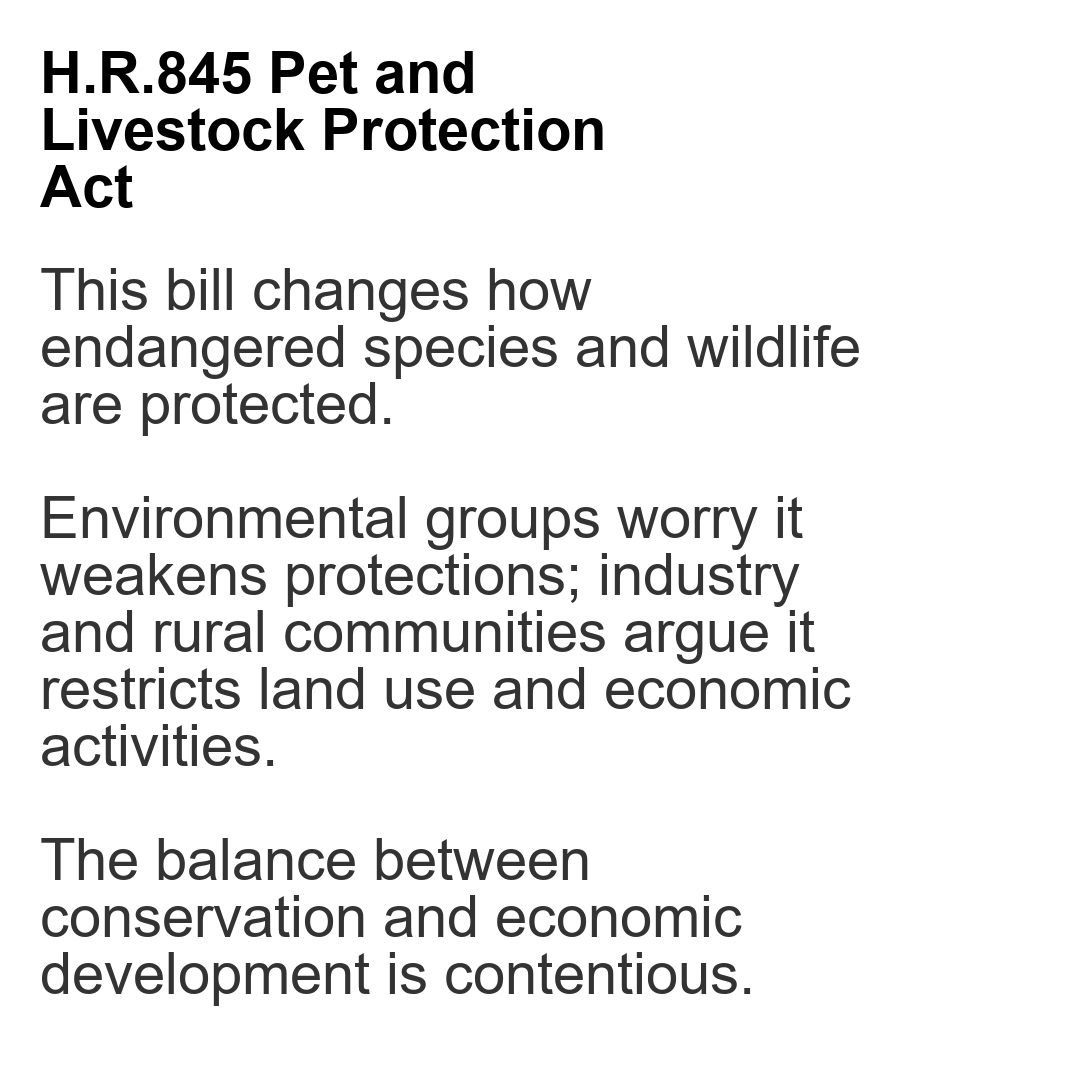
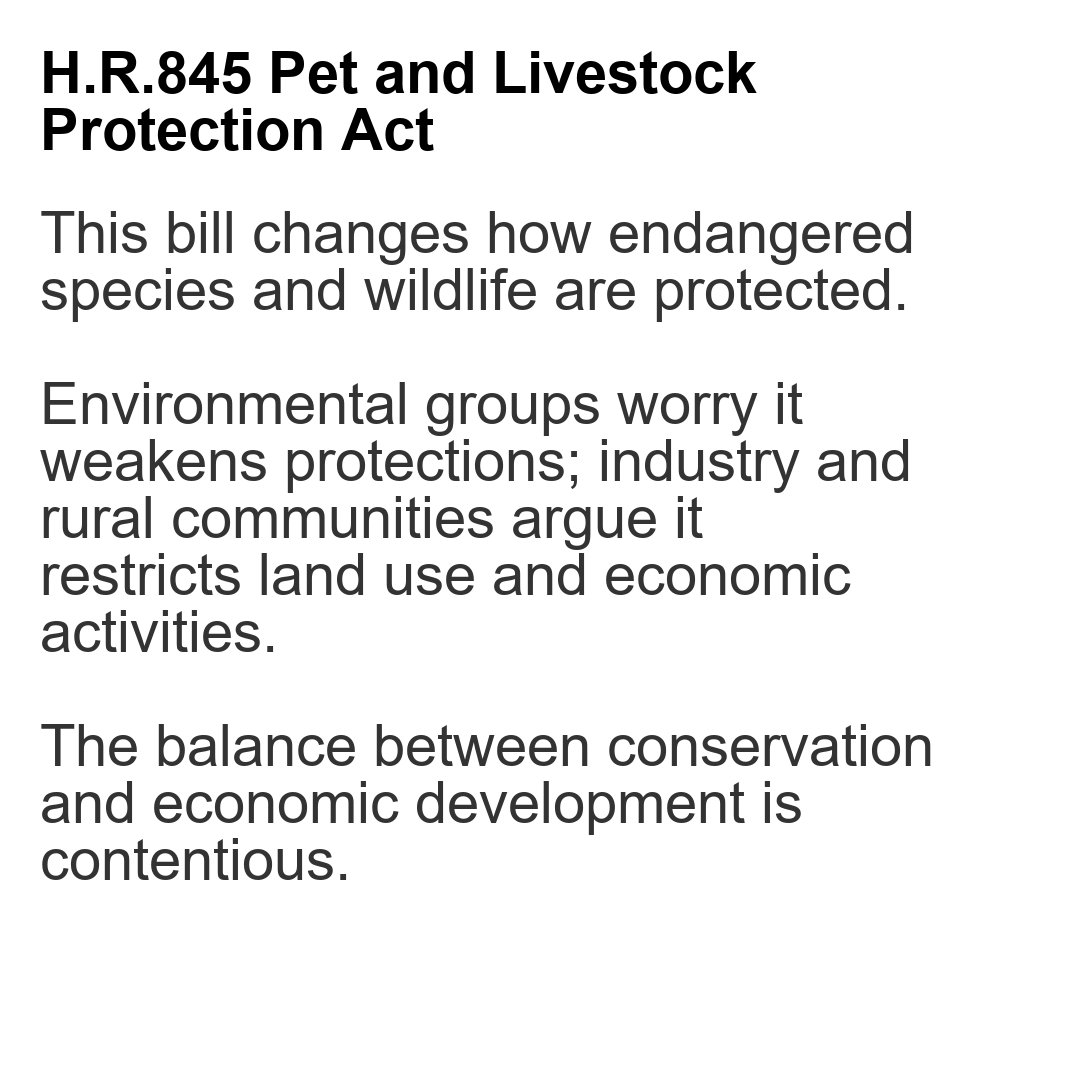
Improve social media title images: full titles, better text width, smarter descriptions
- Remove 3-line title truncation - now displays full bill titles
- Dynamic image height to accommodate longer titles
- Better text wrapping using average character width for fuller line utilization
- Add bill_title parameter to simplify_to_eli5 for fallback context
- Add healthcare/insurance premium pattern matching
- Add education + foreign influence + transparency pattern matching
- Handle metadata-only descriptions by using title keywords
- Regenerated all Dec 2025 title images

Changed region(s): [[0.0306, 0.0306, 0.8861, 0.9472]]

diff --git a/scripts/social_agent_from_json.py b/scripts/social_agent_from_json.py
@@ -64,18 +64,44 @@ def load_json(path: Path):
     return json.loads(path.read_text())
 
 
-def simplify_to_eli5(description: str) -> str:
+def simplify_to_eli5(description: str, bill_title: str = "") -> str:
     """
     Convert a bill description to a clear overview highlighting impacts and consequences.
     
     Focus on: What the bill does, who it affects, and what the real-world consequences
     might be—both intended and potential unintended. Explain nuances and trade-offs.
     Stick to facts; highlight potential harms and benefits for different groups.
-    """
-    if not description or len(description.strip()) < 10:
-        return "This bill makes changes to federal policy."
     
-    text_lower = description.lower()
+    Args:
+        description: The bill's brief summary text
+        bill_title: The bill's title (used as fallback when description is inadequate)
+    """
+    # Check if description is inadequate (empty, too short, or just metadata)
+    is_inadequate = (
+        not description or 
+        len(description.strip()) < 10 or
+        # Detect metadata-only descriptions (no actual bill content)
+        (re.search(r'^[A-Z][a-z]+,\s+[A-Z][a-z]+\s+\[', description) and 
+         'this bill' not in description.lower() and
+         not re.search(r'(requires|prohibits|establishes|authorizes|amends)', description.lower()))
+    )
+    
+    # Combine description and title for better matching
+    text_lower = description.lower() if description else ""
+    title_lower = bill_title.lower() if bill_title else ""
+    combined_lower = f"{text_lower} {title_lower}"
+    
+    # ===== HEALTHCARE & INSURANCE PREMIUMS =====
+    if re.search(r'(health\s*care|healthcare|insurance).*(premium|cost|affordable|lower)', combined_lower) or \
+       re.search(r'(premium|cost).*(health|insurance|affordable)', combined_lower) or \
+       re.search(r'lower.*health.*care.*premium', combined_lower):
+        return "This bill aims to reduce health care costs and insurance premiums.\nSupporters say it makes healthcare more affordable for families.\nCritics debate whether the approach effectively lowers costs or shifts them elsewhere.\nThe impact on coverage options and out-of-pocket expenses varies by income and insurance type."
+
+    # ===== EDUCATION & FOREIGN INFLUENCE TRANSPARENCY =====
+    if re.search(r'(school|education|lea|educational\s+agenc).*?(foreign\s+influence|china|adversar)', combined_lower) or \
+       re.search(r'(transparency|reporting).*?(adversar|foreign).*?(education|school|contribut)', combined_lower) or \
+       re.search(r'(parent|notif).*?(foreign|china|adversar)', combined_lower):
+        return "This bill requires schools to notify parents about foreign influence in education.\nParents gain the right to request information about foreign government involvement.\nSupporters say it protects against adversarial influence in schools.\nCritics worry it may burden schools and chill legitimate international educational exchanges."
     
     # ===== EDUCATION & SCHOOL FUNDING RESTRICTIONS =====
     if re.search(r'school.*?(china|foreign|communist).*?(prohibit|ban|prevent|restrict|disclose)', text_lower):
@@ -176,9 +202,8 @@ def simplify_to_eli5(description: str) -> str:
 
 
 def make_title_image(title: str, desc: str, out_path: Path, width=1080, subheader: str | None = None):
-    simple_desc = simplify_to_eli5(desc)
+    simple_desc = simplify_to_eli5(desc, bill_title=title)
     margin = 40
-    height = width
     base_desc = max(18, int(width * 0.018 * FONT_SCALE * 3))
     title_font_size = base_desc  # Reverted: no longer * 2
     desc_font_size = max(8, int(base_desc / 2)) * 2  # Keep 2x for description
@@ -186,7 +211,7 @@ def make_title_image(title: str, desc: str, out_path: Path, width=1080, subheade
     title_font = _get_font(['DejaVuSans-Bold.ttf', 'arialbd.ttf', 'arial.ttf', 'DejaVuSans.ttf'], title_font_size)
     desc_font = _get_font(['DejaVuSans.ttf', 'arial.ttf'], desc_font_size)
 
-    tmp_img = Image.new('RGB', (width, height), 'white')
+    tmp_img = Image.new('RGB', (width, 2000), 'white')  # Use larger temp image for measuring
     tmp_draw = ImageDraw.Draw(tmp_img)
 
     # Extract bill number and short title from full title
@@ -205,29 +230,29 @@ def make_title_image(title: str, desc: str, out_path: Path, width=1080, subheade
         short_title = match.group(2).strip()
         title = f"{bill_num} {short_title}"
     
-    # Wrap title based on pixel width, not character count
-    avg_title_char_width = tmp_draw.textbbox((0, 0), 'A', font=title_font)[2]
+    # Wrap title based on pixel width - use representative sample for better average
+    # Using lowercase letters which are more common in titles for better width estimate
+    sample_text = "abcdefghijklmnopqrstuvwxyz"
+    sample_bbox = tmp_draw.textbbox((0, 0), sample_text, font=title_font)
+    avg_title_char_width = (sample_bbox[2] - sample_bbox[0]) / len(sample_text)
     target_width = width - 2 * margin
-    title_chars_per_line = max(10, target_width // avg_title_char_width)
+    title_chars_per_line = max(10, int(target_width / avg_title_char_width))
     title_lines = textwrap.wrap(title, width=title_chars_per_line)
-    title = '\n'.join(title_lines[:3])
-    if len(title_lines) > 3:
-        title_text = '\n'.join(title_lines[:3])
-        title_text = title_text[:title_text.rfind('\n')] + '...'
-        title = title_text
+    title = '\n'.join(title_lines)  # Include ALL title lines - no truncation
 
     # Calculate title height
     title_bbox = tmp_draw.textbbox((margin, margin), title, font=title_font)
     title_h = title_bbox[3] - title_bbox[1]
     
-    # Position description with more spacing and center vertically in remaining space
+    # Position description with more spacing
     desc_start_y = margin + title_h + 60
-    available_height = height - desc_start_y - margin
     
-    # Wrap description to fill available space
-    avg_char_width = tmp_draw.textbbox((0, 0), 'a', font=desc_font)[2]
+    # Wrap description to fill available space - use representative sample for better average
+    desc_sample = "abcdefghijklmnopqrstuvwxyz"
+    desc_sample_bbox = tmp_draw.textbbox((0, 0), desc_sample, font=desc_font)
+    avg_char_width = (desc_sample_bbox[2] - desc_sample_bbox[0]) / len(desc_sample)
     target_width = width - 2 * margin
-    desc_chars_per_line = max(10, target_width // avg_char_width)
+    desc_chars_per_line = max(10, int(target_width / avg_char_width))
     
     # Split on newlines first (for our sentence-per-line formatting), then wrap long lines
     desc_paragraphs = simple_desc.split('\n')
@@ -243,6 +268,15 @@ def make_title_image(title: str, desc: str, out_path: Path, width=1080, subheade
     if wrapped_lines and wrapped_lines[-1] == '':
         wrapped_lines.pop()
     simple_desc = '\n'.join(wrapped_lines)
+
+    # Calculate description height
+    desc_bbox = tmp_draw.textbbox((margin, desc_start_y), simple_desc, font=desc_font)
+    desc_h = desc_bbox[3] - desc_bbox[1]
+    
+    # Calculate total required height dynamically based on content
+    total_height = margin + title_h + 60 + desc_h + margin
+    # Ensure minimum height of width (square) but expand if content requires more
+    height = max(width, total_height)
 
     img = Image.new('RGB', (width, height), 'white')
     draw = ImageDraw.Draw(img)

diff --git a/scripts/social_agent.py b/scripts/social_agent.py
@@ -128,22 +128,33 @@ def make_text_image(title: str, desc: str, out_path: Path, width: int = 1200) ->
         title_font = ImageFont.load_default()
         desc_font = ImageFont.load_default()
 
-    # Wrap text
-    wrapper = textwrap.TextWrapper(width=80)
-    desc_wrapped = wrapper.fill(desc)
-
-    # Estimate height
+    # Create dummy image for measuring text
     dummy = Image.new("RGB", (width, 200), "white")
     draw = ImageDraw.Draw(dummy)
-    title_h = draw.multiline_textsize(title, font=title_font)[1]
-    desc_h = draw.multiline_textsize(desc_wrapped, font=desc_font)[1]
+
+    # Wrap title based on pixel width to ensure full title fits
+    avg_title_char_width = draw.textbbox((0, 0), 'A', font=title_font)[2]
+    target_width = width - 2 * margin
+    title_chars_per_line = max(10, target_width // avg_title_char_width)
+    title_wrapper = textwrap.TextWrapper(width=title_chars_per_line)
+    title_wrapped = title_wrapper.fill(title)
+
+    # Wrap description
+    desc_wrapper = textwrap.TextWrapper(width=80)
+    desc_wrapped = desc_wrapper.fill(desc)
+
+    # Estimate height using textbbox (multiline_textsize is deprecated)
+    title_bbox = draw.textbbox((0, 0), title_wrapped, font=title_font)
+    title_h = title_bbox[3] - title_bbox[1]
+    desc_bbox = draw.textbbox((0, 0), desc_wrapped, font=desc_font)
+    desc_h = desc_bbox[3] - desc_bbox[1]
     height = margin * 2 + title_h + 20 + desc_h
 
     img = Image.new("RGB", (width, max(height, 300)), "white")
     d = ImageDraw.Draw(img)
     x = margin
     y = margin
-    d.text((x, y), title, fill="black", font=title_font)
+    d.text((x, y), title_wrapped, fill="black", font=title_font)
     y += title_h + 20
     d.text((x, y), desc_wrapped, fill="black", font=desc_font)
     img.save(out_path)
